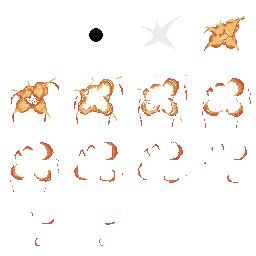
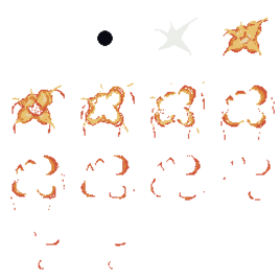
nueva explosion

diff --git a/src/main/java/org/catshooter/efectos/Explosion.java b/src/main/java/org/catshooter/efectos/Explosion.java
@@ -6,23 +6,28 @@ import com.badlogic.gdx.graphics.g2d.SpriteBatch;
 import com.badlogic.gdx.graphics.g2d.TextureRegion;
 
 public class Explosion extends Efecto {
+    private TextureRegion[] regiones;
     public Explosion() {
-        imagen = new Texture("efectos/explosion.png");
-        regiones = new TextureRegion[18];
+        imagen = new Texture("efectos/explosion2.png");
         establecerFrames();
 
         animacion = new Animation<>(0.06f,regiones);
     }
     @Override
     public void establecerFrames() {
-        for (int i = 0; i < regiones.length; i++) {
-            regiones[i] = new TextureRegion(imagen,48*i,0,48, 48);
+        TextureRegion[][] tmp = TextureRegion.split(imagen, imagen.getWidth()/4, imagen.getHeight()/4);
+        regiones = new TextureRegion[4*4];
+        int index = 0;
+        for (int i = 0; i < 4; i++) {
+            for (int j = 0; j < 4; j++) {
+                regiones[index++] = tmp[i][j];
+            }
         }
     }
     @Override
     public void animar(SpriteBatch batch, float x, float y) {
         if (!efectoFinalizo()) {
-            batch.draw(animacion.getKeyFrame(frameActual), x, y);
+            batch.draw(animacion.getKeyFrame(frameActual), x, y-10);
         }
     }
 }

diff --git a/src/main/java/org/catshooter/animacion/Animacion.java b/src/main/java/org/catshooter/animacion/Animacion.java
@@ -5,7 +5,7 @@ import com.badlogic.gdx.graphics.g2d.Animation;
 import com.badlogic.gdx.graphics.g2d.SpriteBatch;
 import com.badlogic.gdx.graphics.g2d.TextureRegion;
 
-public class Animacion implements Animable{
+public abstract class Animacion implements Animable{
     protected static final int FRAME_COLS = 4, FRAME_ROWS = 2;
     protected Animation<TextureRegion> animacionGato;
     protected Texture gatoSheet;

diff --git a/src/main/java/org/catshooter/pantallas/juego/PantallaJuegoAbstracta.java b/src/main/java/org/catshooter/pantallas/juego/PantallaJuegoAbstracta.java
@@ -7,7 +7,7 @@ import io.socket.client.IO;
 import io.socket.client.Socket;
 import io.socket.emitter.Emitter;
 import org.catshooter.controladores.GestorDeAudio;
-import org.catshooter.core.Hud;
+import org.catshooter.hud.Hud;
 import org.catshooter.core.Juego;
 import org.catshooter.entidades.Enemigo;
 import org.catshooter.entidades.Jugador;

diff --git a/src/main/java/org/catshooter/efectos/Efecto.java b/src/main/java/org/catshooter/efectos/Efecto.java
@@ -8,7 +8,6 @@ import org.catshooter.animacion.Animable;
 
 public abstract class Efecto implements Animable {
     protected Texture imagen;
-    protected TextureRegion[] regiones;
     protected Animation<TextureRegion> animacion;
     protected float frameActual;
     public Efecto() {

diff --git a/src/main/java/org/catshooter/hud/Hud.java b/src/main/java/org/catshooter/hud/Hud.java
@@ -1,4 +1,4 @@
-package org.catshooter.core;
+package org.catshooter.hud;
 
 import com.badlogic.gdx.Gdx;
 import com.badlogic.gdx.graphics.Color;
